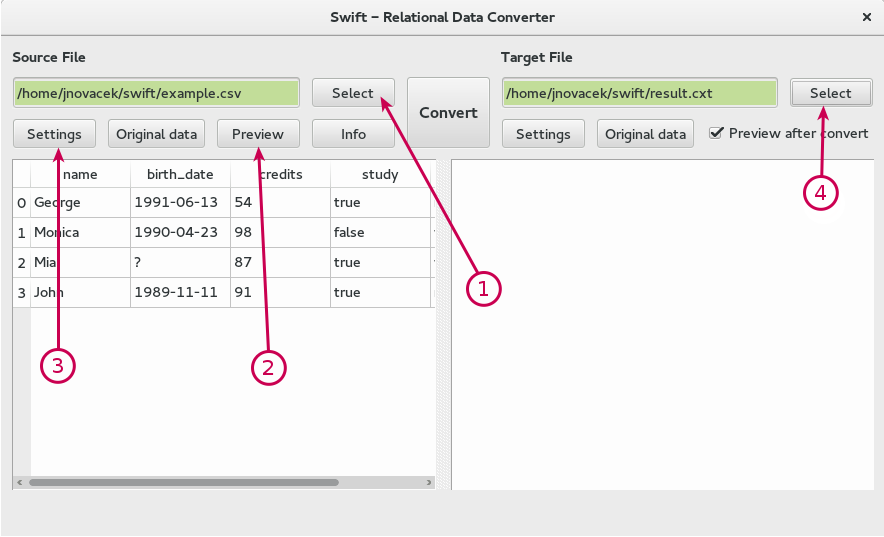
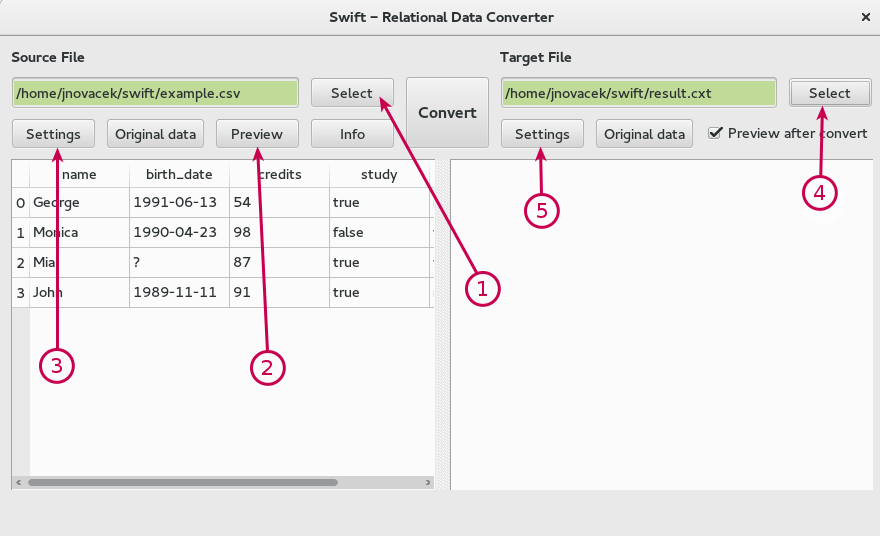
gui manual updated, shortcuts and dialogs section has been added

diff --git a/guimanual.html b/guimanual.html
@@ -12,7 +12,7 @@
 <div id="header">
 	<div id="header_content">
 		<div>Swift</div>
-		<div style="font-weight:normal; font-size:30px">Relational Data Converter</div>
+		<div class="sub_header">Relational Data Converter</div>
 		<a href="index.html"><img id="icon"src="./img/swift_icon.svg"></a>
 	</div>
 </div>
@@ -23,7 +23,7 @@
 <pre><code>cd path/to/swift/
 ./swift.py
 </code></pre>
-	<h2>LAYOUT</h2>
+	<h2>MAIN WINDOW LAYOUT</h2>
 	<p class="screens"><img src="./img/mainblank.png"></p>
 	<h3>UI Elements</h3>
 	<dl>
@@ -93,12 +93,78 @@
 		Allows to change width of <i>source/target data table</i>.
 		</dd>
 	</dl>
+	<h2>SHORTCUTS</h2>
+	<ul>
+		<li><b>Ctrl+s, Ctrl+c</b>: Start convert.</li>
+		<li><b>Ctrl+c</b>: Copy selected data in a table to the clipboard.</li>
+		<li><b>Ctrl+p</b>: Preview.</li>
+		<li><b>Ctrl+i</b>: Info.</li>
+		<li><b>Ctrl+f</b>: Find in the <i>source/target data table</i>.</li>
+		<li><b>Ctrl+s, Ctrl+f</b>: Select the source file.</li>
+		<li><b>Ctrl+t, Ctrl+f</b>: Select the target file.</li>
+		<li><b>Ctrl+s, Ctrl+s</b>: Open the source settings.</li>
+		<li><b>Ctrl+t, Ctrl+s</b>: Open the target settings.</li>
+		<li><b>Ctrl+s, Ctrl+o</b>: Show the source original data.</li>
+		<li><b>Ctrl+t, Ctrl+o</b>: Show the target original data.</li>
+		<li><b>Atlt+s</b>: Set focus to the <i>Source file text box</i>.</li>
+		<li><b>Atlt+t</b>: Set focus to the <i>Target file text box</i>.</li>
+		<li><b>Alt+arrowleft</b>: Move the split bar to the left.</li>
+		<li><b>Alt+arrowright</b>: Move the split bar to the right.</li>
+	</ul>
+
+	<h2>DIALOGS</h2>
+	<h3>Source/Target settings dialog</h3>
+	<p class="screens"><img src="img/sourceargsempty.png"></p>
+	<p class="screens"><img src="img/targetargsempty.png"></p>
+
+	<h3>Progress bar dialogs</h3>
+	<p class="screens"><img src="img/convert.png"></p>
+	<p class="screens"><img src="img/prepare.png"></p>
+
+	<h3>Warning/Error dialogs</h3>
+	<p class="screens"><img src="img/warning.png"></p>
+	<p class="screens"><img src="img/error.png"></p>
+	<p class="screens"><img src="img/errordetail.png"></p>
+
+	<h3>Find in table dialog</h3>
+	<p class="screens"><img src="img/find.png"></p>
+
+	<h3>Original data dialog</h3>
+	<p class="screens"><img src="img/orig.png"></p>
+
 	<h2>EXAMPLE</h2>
 	Conversion CSV (<a href="manual.html#ex_csv">example.csv</a>) to CXT (<a href="manual.html#res_cxt">result.cxt</a>)
+	<h3>Main window</h3>
+	<ol>
+		<li>Select the source file</li>
+		<li>Show a preview of data.</li>
+		<li>Open the source settings dialog and fill relevant arguments.</li>
+		<li>Select the target file</li>
+		<li>Open the target settings dialog and fill relevant arguments.</li>
+	</ol>
 	<p class="screens"><img src="img/preview.png"></p>
+
+	<h3>The source settings dialog</h3>
+	<ol>
+		<li>Set the Target Attributes argument.</li>
+		<li>Set the Missing Value argument.</li>
+		<li>Confirm the form by click on the button OK.</li>
+	</ol>
 	<p class="screens"><img src="img/sourceargs.png"></p>
+
+	<h3>The target settings dialog</h3>
+	<ol>
+		<li>Set the Objects argemnts.</li>
+		<li>Confirm the form by click on the button OK.</li>
+	</ol>
 	<p class="screens"><img src="img/targetargs.png"></p>
+
+	<h3>Finish</h3>
+	<ol>
+		<li>Click on the <i>Convert</i> button.</li>
+	</ol>
 	<p class="screens"><img src="img/result.png"></p>
+
 </div>
 
 <div id="footer">

diff --git a/manual.html b/manual.html
@@ -12,7 +12,7 @@
 <div id="header">
 	<div id="header_content">
 		<div>Swift</div>
-		<div style="font-weight:normal; font-size:30px">Relational Data Converter</div>
+		<div class="sub_header">Relational Data Converter</div>
 		<a href="index.html"><img id="icon"src="./img/swift_icon.svg"></a>
 	</div>
 </div>
@@ -97,7 +97,7 @@
 	<dl>
 		<dt><b>source</b></dt>
 		<dd>
-		The name of the file (program reads and processes this file) in one of the supported <a href="#formats">format</a>. The <i>source</i> must ends with a valid format extension or the optional <i>--source_format</i> argument must be used. If the <i>source</i> is omitted or if it equals to "-", the program reads the input from the <i>stdin</i>.
+		The name of the file (program reads and processes this file) in one of the supported <a href="#formats">formats</a>. The <i>source</i> must ends with a valid format extension or the optional <i>--source_format</i> argument must be used. If the <i>source</i> is omitted or if it equals to "-", the program reads the input from the <i>stdin</i>.
 		</dd>
 	</dl>
 	<h3>Optional arguments</h3>

diff --git a/index.html b/index.html
@@ -12,7 +12,7 @@
 <div id="header">
 	<div id="header_content">
 		<div>Swift</div>
-		<div style="font-weight:normal; font-size:30px">Relational Data Converter</div>
+		<div class="sub_header">Relational Data Converter</div>
 		<a href="index.html"><img id="icon"src="./img/swift_icon.svg"></a>
 	</div>
 </div>

diff --git a/style.css b/style.css
@@ -16,6 +16,7 @@ img{
 #icon{
 	width: 80px;
 	float: left;
+	margin-left: 200px;
 	margin-top: -80px;
 }
 
@@ -93,4 +94,9 @@ h4:before {
 	font-size: 40px;
 	font-weight: bold;
 	color: whitesmoke;
+}
+
+.sub_header{
+	font-weight:normal;
+	font-size:25px;
 }
